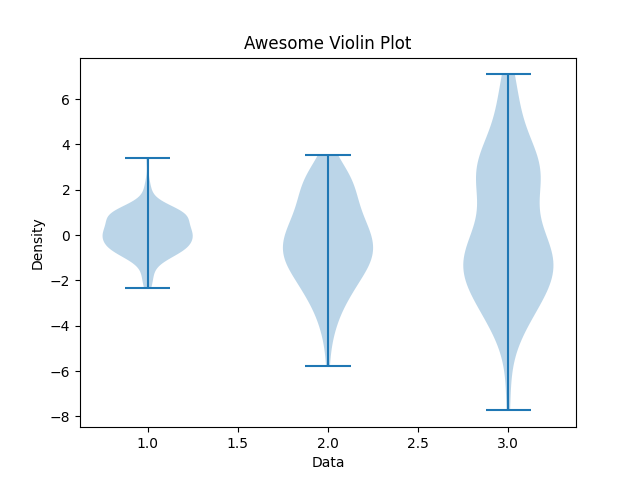
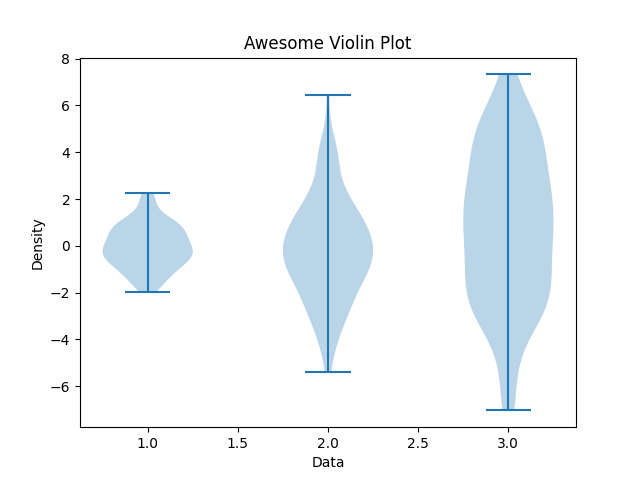
added ruff, started formatting and introduced recommended extensions

diff --git a/DonutCharts.py b/DonutCharts.py
@@ -1,24 +1,37 @@
 # donut_chart.py
 from turtle import color
+
 import matplotlib.pyplot as plt
 
 
 class DonutCharts:
     def __init__(self):
-        self.image_dir = 'images'
+        self.image_dir = "images"
         print("DonutCharts")
 
-    def donut_charter(self, sizes, labels, filename: str):
-        plt.pie(sizes, labels=labels, autopct='%1.1f%%')
-        circle = plt.Circle((0, 0), 0.8, color='white')
+    def donut_charter(
+        self, sizes, labels, filename: str
+    ):
+        plt.pie(
+            sizes,
+            labels=labels,
+            autopct="%1.1f%%",
+        )
+        circle = plt.Circle(
+            (0, 0), 0.8, color="white"
+        )
         plt.gca().add_artist(circle)
-        plt.title('Donut Chat')
-        donut_filename: str = f'{self.image_dir}/{filename}.png'
+        plt.title("Donut Chat")
+        donut_filename: str = (
+            f"{self.image_dir}/{filename}.png"
+        )
         plt.savefig(donut_filename)
 
 
 donnutCharts = DonutCharts()
 
 sizes = [15, 30, 45, 10]
-labels = ['A', 'B', 'C', 'D']
-donnutCharts.donut_charter(sizes, labels, 'donut_chart')
+labels = ["A", "B", "C", "D"]
+donnutCharts.donut_charter(
+    sizes, labels, "donut_chart"
+)

diff --git a/ViolinCharts.py b/ViolinCharts.py
@@ -5,19 +5,19 @@ import numpy as np
 
 class ViolinCharts:
     def __init__(self):
-        self.image_dir = 'images'
+        self.image_dir = "images"
         print("ViolinCharts")
 
     def violin_plot(self, data, filename: str):
         plt.violinplot(data)
-        plt.xlabel('Data')
-        plt.ylabel('Density')
-        plt.title('Awesome Violin Plot')
-        violin_filename: str = f'{self.image_dir}/{filename}'
+        plt.xlabel("Data")
+        plt.ylabel("Density")
+        plt.title("Awesome Violin Plot")
+        violin_filename: str = f"{self.image_dir}/{filename}"
         plt.savefig(violin_filename)
 
 
 violinCharts = ViolinCharts()
 
 data = [np.random.normal(0, std, 100) for std in range(1, 4)]
-violinCharts.violin_plot(data, 'awesome_violin_plot')
+violinCharts.violin_plot(data, "awesome_violin_plot")
